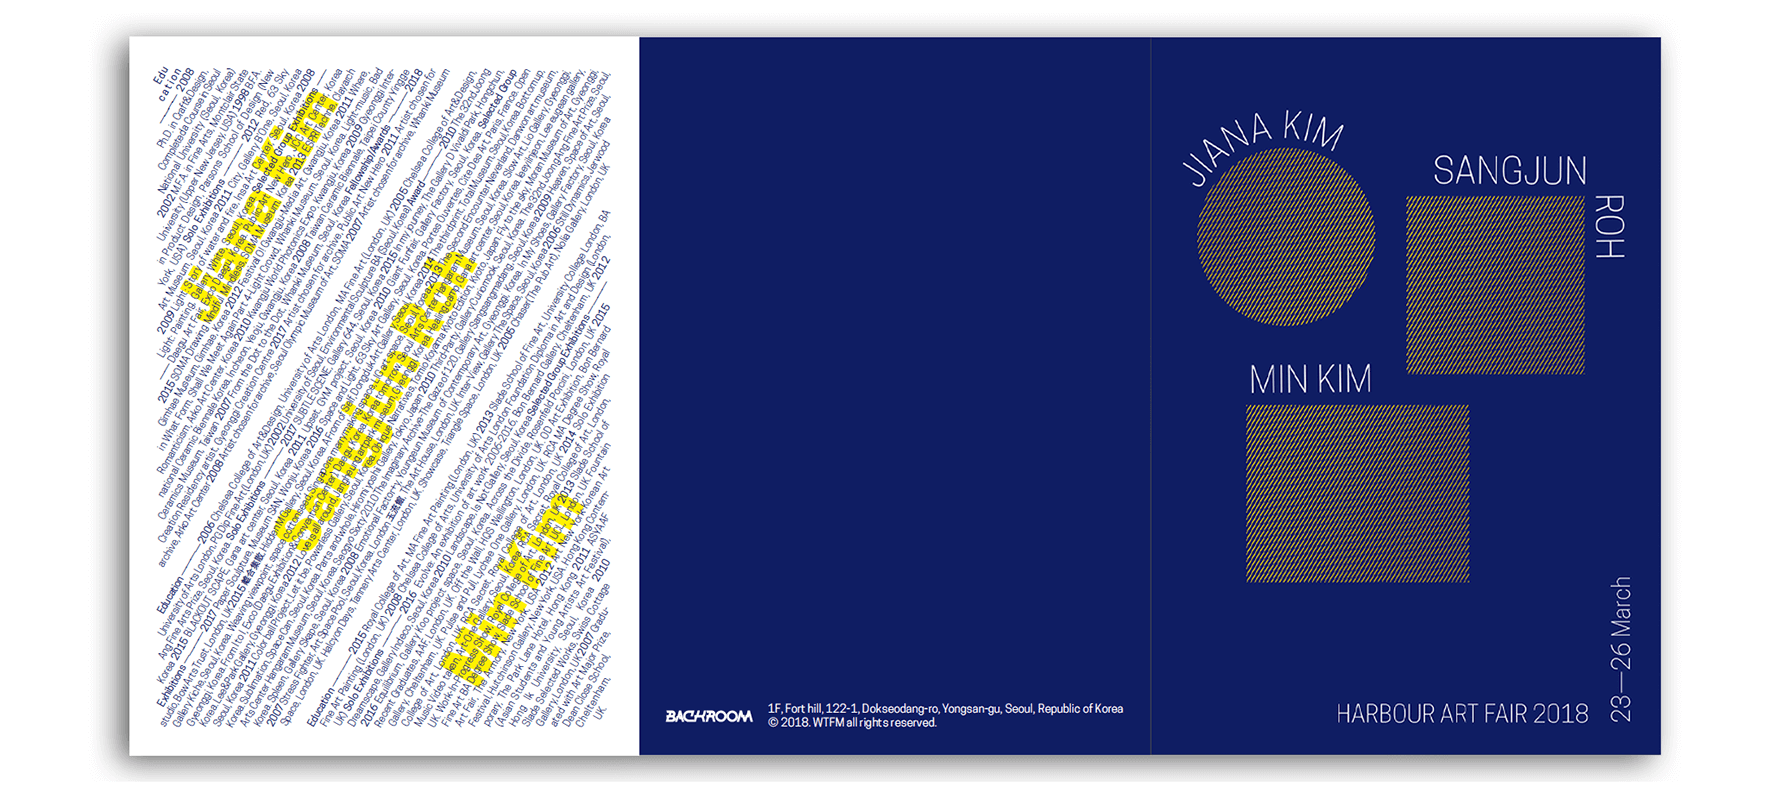
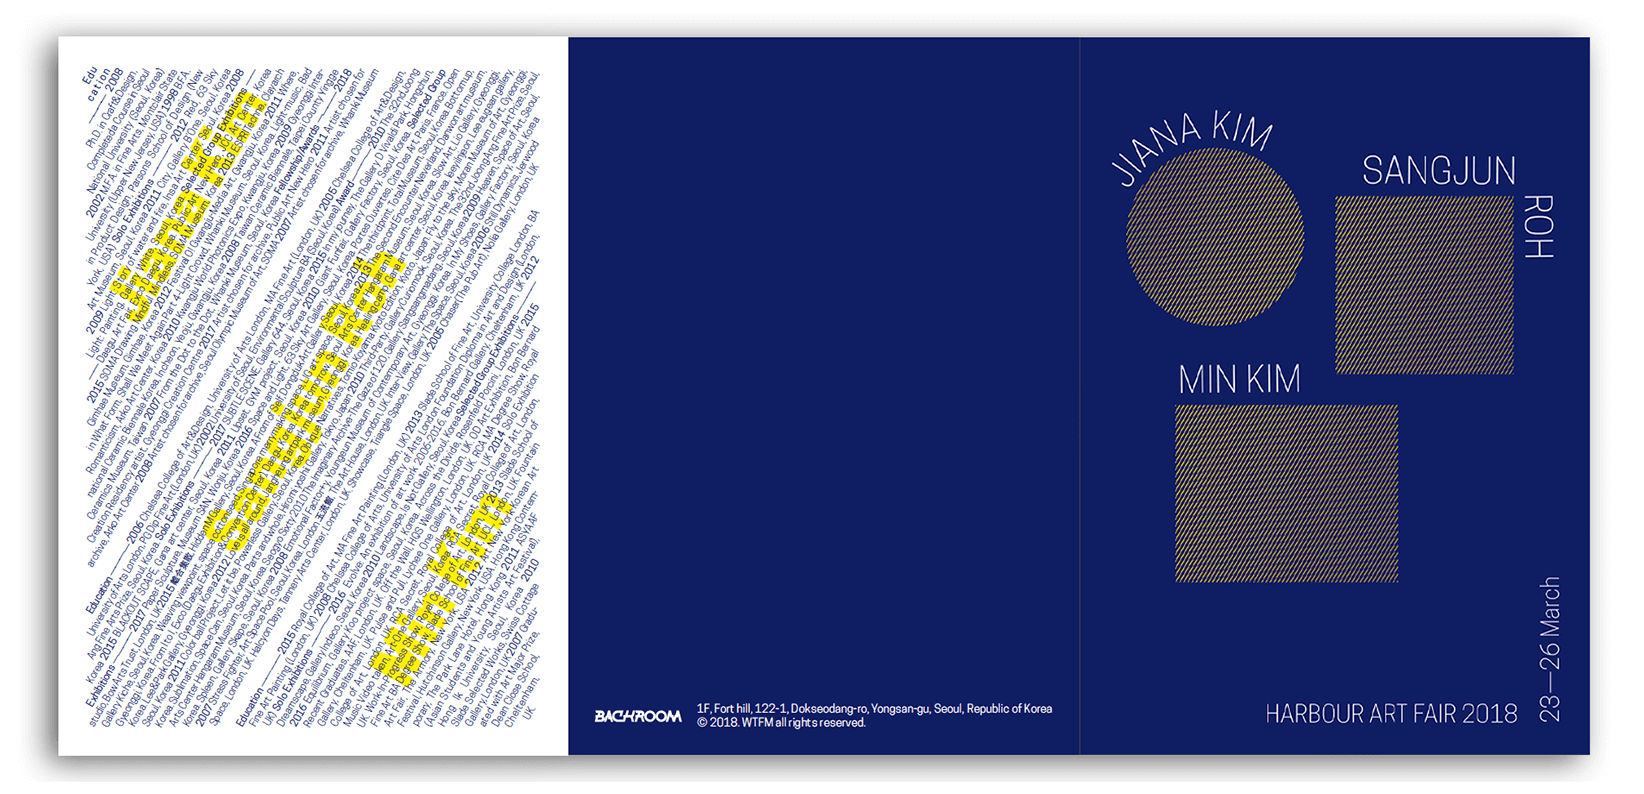
proper commercial works site

diff --git a/commercial_works.html b/commercial_works.html
@@ -1,0 +1,122 @@
+<!DOCTYPE html>
+<html>
+  <head>
+    <meta charset="utf-8">
+    <title>namesof.kim/commercial_works</title>
+    <link rel="stylesheet" href="style.css">
+    <link rel="icon" href="icon2.png">
+
+  </head>
+  <body>
+
+  <div id ="b_top"style="width:100%;height:19px;"> </div>
+  <div id ="b_bot" style="width:100%;height:19px;"> </div>
+  <div id ="b_left"style="width:19px;height:100%;"> </div>
+  <div id ="b_right" style="width:19px;height:100%;"> </div>
+  <div id ="b2_top"style="width:100%;height:19px;"> </div>
+  <div id ="b2_bot" style="width:100%;height:19px;"> </div>
+  <div id ="b2_left"style="width:19px;height:100%;"> </div>
+  <div id ="b2_right" style="width:19px;height:100%;"> </div>
+
+
+<div class="header">
+  <div>namesof.kim/commercial_works</div>
+  <div> <span lang="ko">그래픽 디자인</span> Graphic Design </div>
+</div>
+</div>
+
+<div class="header2">
+      <p>Kihyeon or <span lang="ko">김현정</span> or Hyeonjeong Kim
+        curretly lives and works in the Hague, the Netherlands. <br>
+        namesof.kim features selected projects and works for various purposes and disciplines. <br>
+        Contact: <a href="mailto:shellyhjkim@gmail.com" target="_blank"> shellyhjkim@gmail.com </a> <br>
+        <a>To the main portfolio website &#8594;
+          <a href=https://namesof.kim/ target="_blank"> namesof.kim</a></a>
+      </p>
+</div>
+
+<div class="projects">
+
+  <button class="accordion">
+    <div id="title"> Neighbours Collective </div>
+    <div id="tag"> Poster • 2019 </div>
+    <img src="works/imgs/others/ghost1.png">
+  </button>
+  <div class="panel">
+    <p> Client: Neighbours Collective <br>
+      Identity : The re-deign logo project for “NEIGHBOURS COLLECTIVE” an experimental music platform based in Bangkok. Poster: layout design and typography for the first event under the new identity “TSOHG YROTS” at De commune, BKK. <br>
+      Under supervision of Piyakorn Chaiverapundech of Studio 150</p>
+    <div class="singleimg">
+      <img src="works/imgs/others/Neighbours.gif" style="max-width: 640px;">
+      <img src="works/imgs/others/NEIGHBOURS.jpg">
+      <img src="works/imgs/others/ghost4.jpg">
+    </div>
+  </div>
+
+  <button class="accordion">
+    <div id="title"> Gallery BACKROOM at Harbour Art Fair 2018 </div>
+    <div id="tag"> Editorial • 2018</div>
+    <img src="images/harbour_000.png">
+  </button>
+  <div class="panel">
+    <p> Leaflet and postcard designs for the gallery <a href="http://wtfm.co.kr/?tag=15" target="_blank"> BACKROOM </a>,
+      participating in <a href="https://www.harbourartfair.com/" target="_blank">Harbour Art Fair </a>2018 in Hong Kong.<br>
+      Leaflet size: 14x20(cm) Postcard size: 10x15(cm) <br>
+      Representing artists: <a href="https://www.jianak.com" target="_blank"> Jiana Kim <a>,
+        <a href="https://sangjunroh.com" target="_blank"> Sangjun Roh </a> and
+        <a href="https://www.minjungkim.co.uk" target="_blank"> Min Kim </a>.
+  </p>
+    <div class="singleimg">
+      <img src="works/imgs/harbour/001.png">
+      <img src="works/imgs/harbour/002.png">
+      <img src="works/imgs/harbour/003.png">
+      <img src="works/imgs/harbour/004.png">
+      <img src="works/imgs/harbour/005_copy.png">
+    </div>
+  </div>
+
+  <button class="accordion">
+    <div id="title"> <span lang="ko">악어와 악어새</span> Open Call </div>
+    <div id="tag"> Poster • 2018 </div>
+    <img src="works/imgs/others/hanok_01.jpg">
+  </button>
+  <div class="panel">
+    <p> Client: Hanok Magazine <br>
+      2018 Seoul Hanok expo, open call for the first collaboration competition
+    <br>For external and internal use</p>
+    <div class="singleimg">
+      <img src="works/imgs/others/hanok_03.jpg">
+    </div>
+  </div>
+
+  <button class="accordion">
+    <div id="title"> Others </div>
+    <div id="tag"> Digital Designs • 2018-2019 </div>
+  </button>
+  <div class="panel">
+    <div class="singleimg">
+      <video controls autoplay loop>
+        <source src="works/imgs/others/rip_vid.mp4" type="video/mp4" loading="lazy"></video>
+      <video controls autoplay loop>
+        <source src="works/imgs/others/final_poster.mp4" type="video/mp4" loading="lazy"></video>
+      <img src="works/imgs/others/fsna2-05.jpg">
+      <img src="works/imgs/others/SUP_banner-02.jpg">
+      <video controls autoplay loop>
+        <source src="works/imgs/others/WAA.mp4" type="video/mp4" loading="lazy" style="max-width: 720px;"></video>
+ 
+    </div>
+  </div>
+
+
+
+</div>
+
+
+
+<script src="https://code.jquery.com/jquery-3.3.1.min.js"></script>
+<script src="js/flickity.pkgd.js"></script>
+<script src="js/script.mjs"></script>
+
+  </body>
+
+</html>

diff --git a/index.html b/index.html
@@ -5,15 +5,7 @@
     <title>namesof.kim</title>
     <link rel="stylesheet" href="style.css">
     <link rel="icon" href="icon2.png">
-<!-- Global site tag (gtag.js) - Google Analytics -->
-<script async src="https://www.googletagmanager.com/gtag/js?id=G-SR2Z1VS3H2"></script>
-<script>
-  window.dataLayer = window.dataLayer || [];
-  function gtag(){dataLayer.push(arguments);}
-  gtag('js', new Date());
 
-  gtag('config', 'G-SR2Z1VS3H2');
-</script>
   </head>
   <body>
 
@@ -37,7 +29,7 @@
       <p>Kihyeon or <span lang="ko">김현정</span> or Hyeonjeong Kim
         curretly lives and works in the Hague, the Netherlands. <br>
         namesof.kim features selected projects and works for various purposes and disciplines. <br>
-        For inquires: <a href="mailto:shellyhjkim@gmail.com" target="_blank"> shellyhjkim@gmail.com </a>
+        Contact <a href="mailto:shellyhjkim@gmail.com" target="_blank"> shellyhjkim@gmail.com </a>
       </p>
 </div>
 
@@ -125,6 +117,8 @@
       <img src="images/life.png">
     </button>
     <div class="panel">
+      <p>Video length: 50'' <br>
+        An animated poster for a hypothetical future</p>
       <div class="singleimg">
         <video controls autoplay loop> <source src="images/life.mp4" type="video/mp4"></video>
           <video controls autoplay loop> <source src="images/life.mp4" type="video/mp4"></video>

diff --git a/style.css b/style.css
@@ -123,6 +123,7 @@ span:lang(ko){
 }
 
 
+
 .projects{
   font-family:'F-Grotesk-Thin';
   line-height: 19px;
@@ -139,6 +140,11 @@ span:lang(ko){
     font-size: 11pt;
 }
 
+.accordion span:lang(ko){
+  font-family: 'arita-Medium';
+  font-size: 16pt;
+  padding-bottom: 1px;
+}
 
 .accordion {
   display: inline-block;
@@ -242,7 +248,7 @@ button {
   margin-top: -1px;
   -webkit-border-style: outset;
   border-style: outset;
-  background-color: rgb(230, 230, 230);
+  background-color: darkslateblue;
   color: white;
 }
 
@@ -300,10 +306,12 @@ accordion.active {
 
 .singleimg img {
   max-width: 100%;
+  max-height: 82vh;
 }
 
 .singleimg video {
-  max-height: 85vh;
+  max-width: 100%;
+  max-height: 82vh;
 }
 
 #label{
